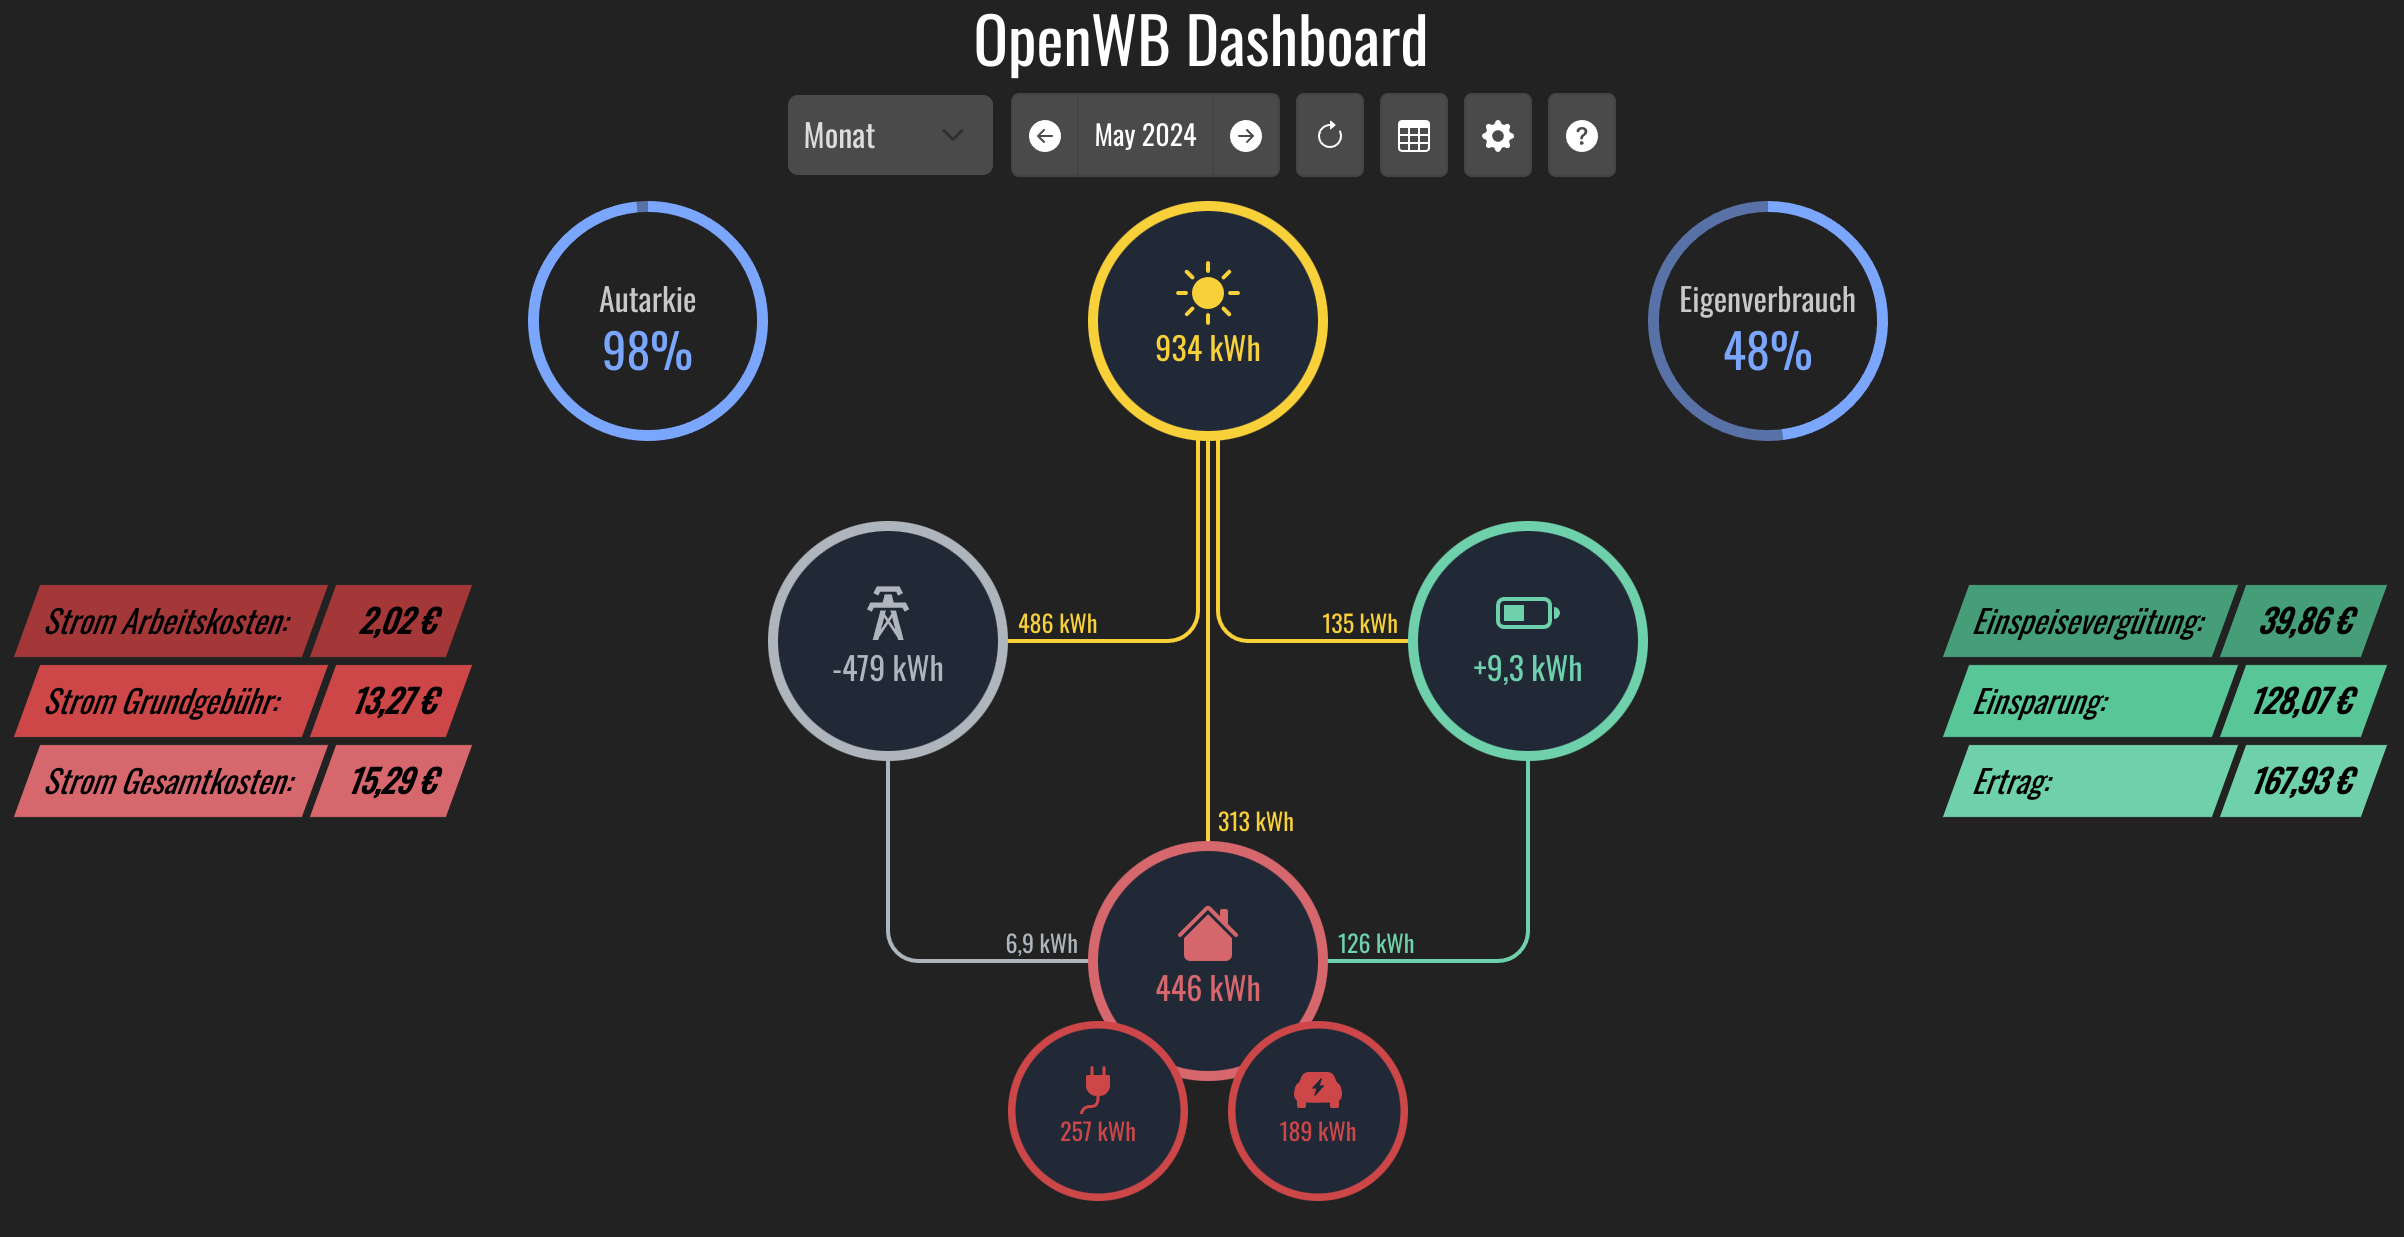
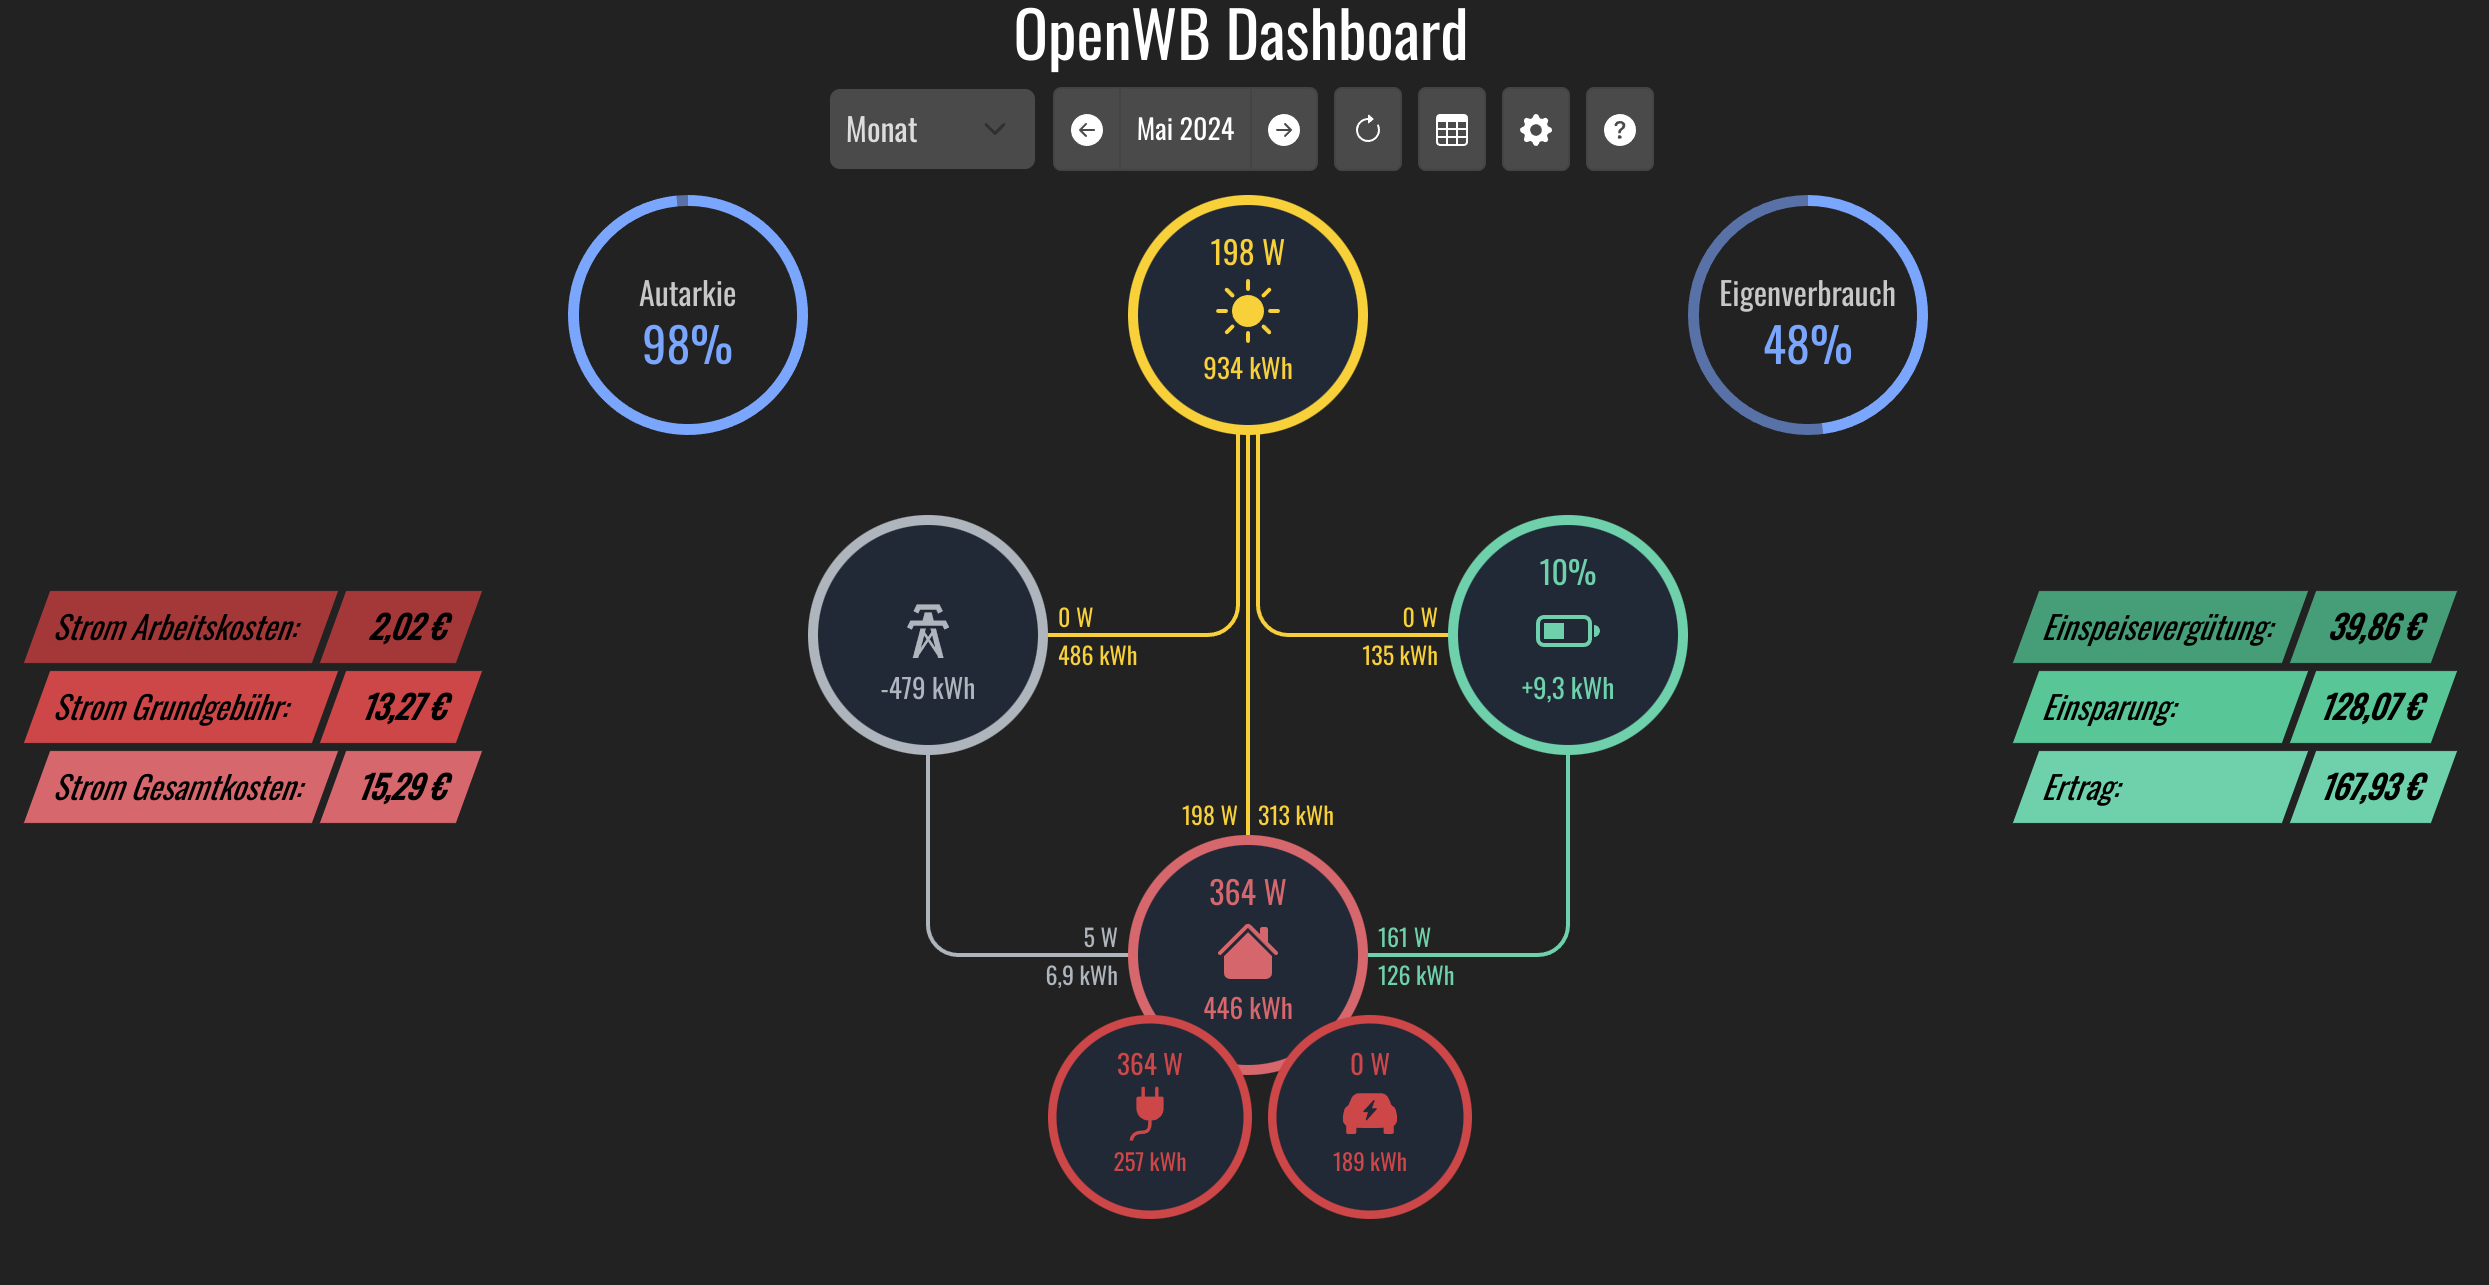
fixed locale for month text, updated screenshot

diff --git a/src/routes/+page.svelte b/src/routes/+page.svelte
@@ -306,7 +306,7 @@
 			case Interval.Day:
 				return fromDate.toLocaleDateString();
 			case Interval.Month:
-				return fromDate.toLocaleDateString('default', { month: 'long', year: 'numeric' });
+				return fromDate.toLocaleDateString('de-DE', { month: 'long', year: 'numeric' });
 			case Interval.Year:
 				return fromDate.getFullYear().toString();
 			case Interval.Lifetime:
